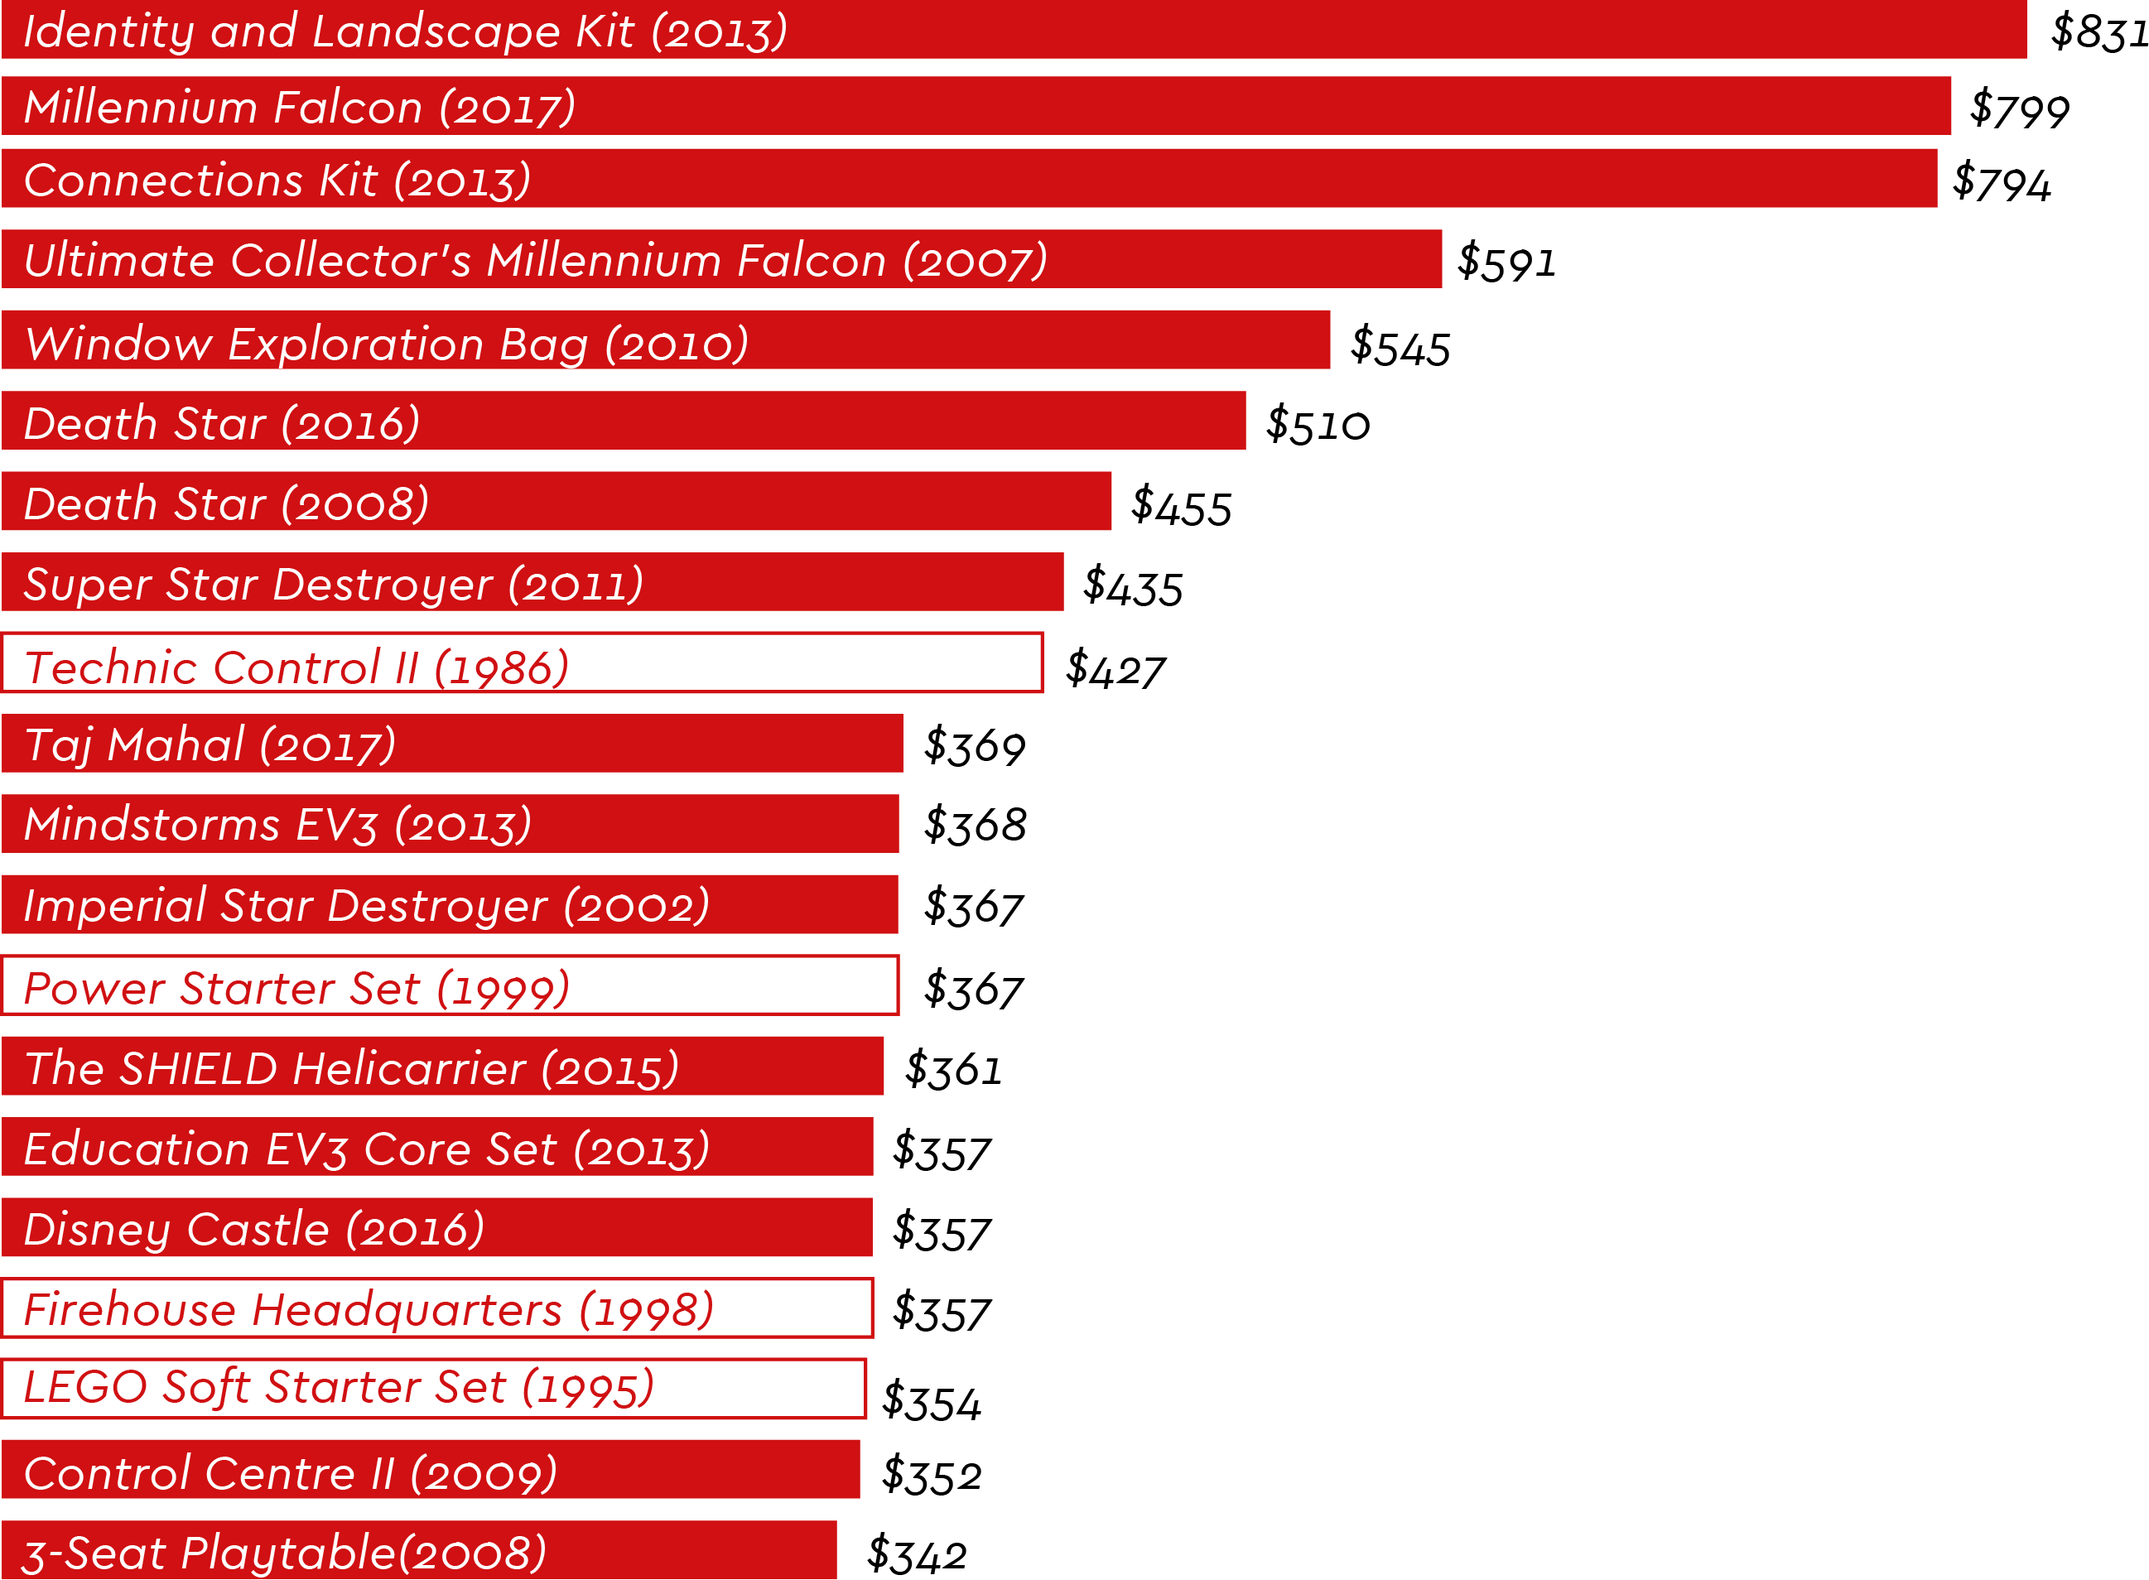
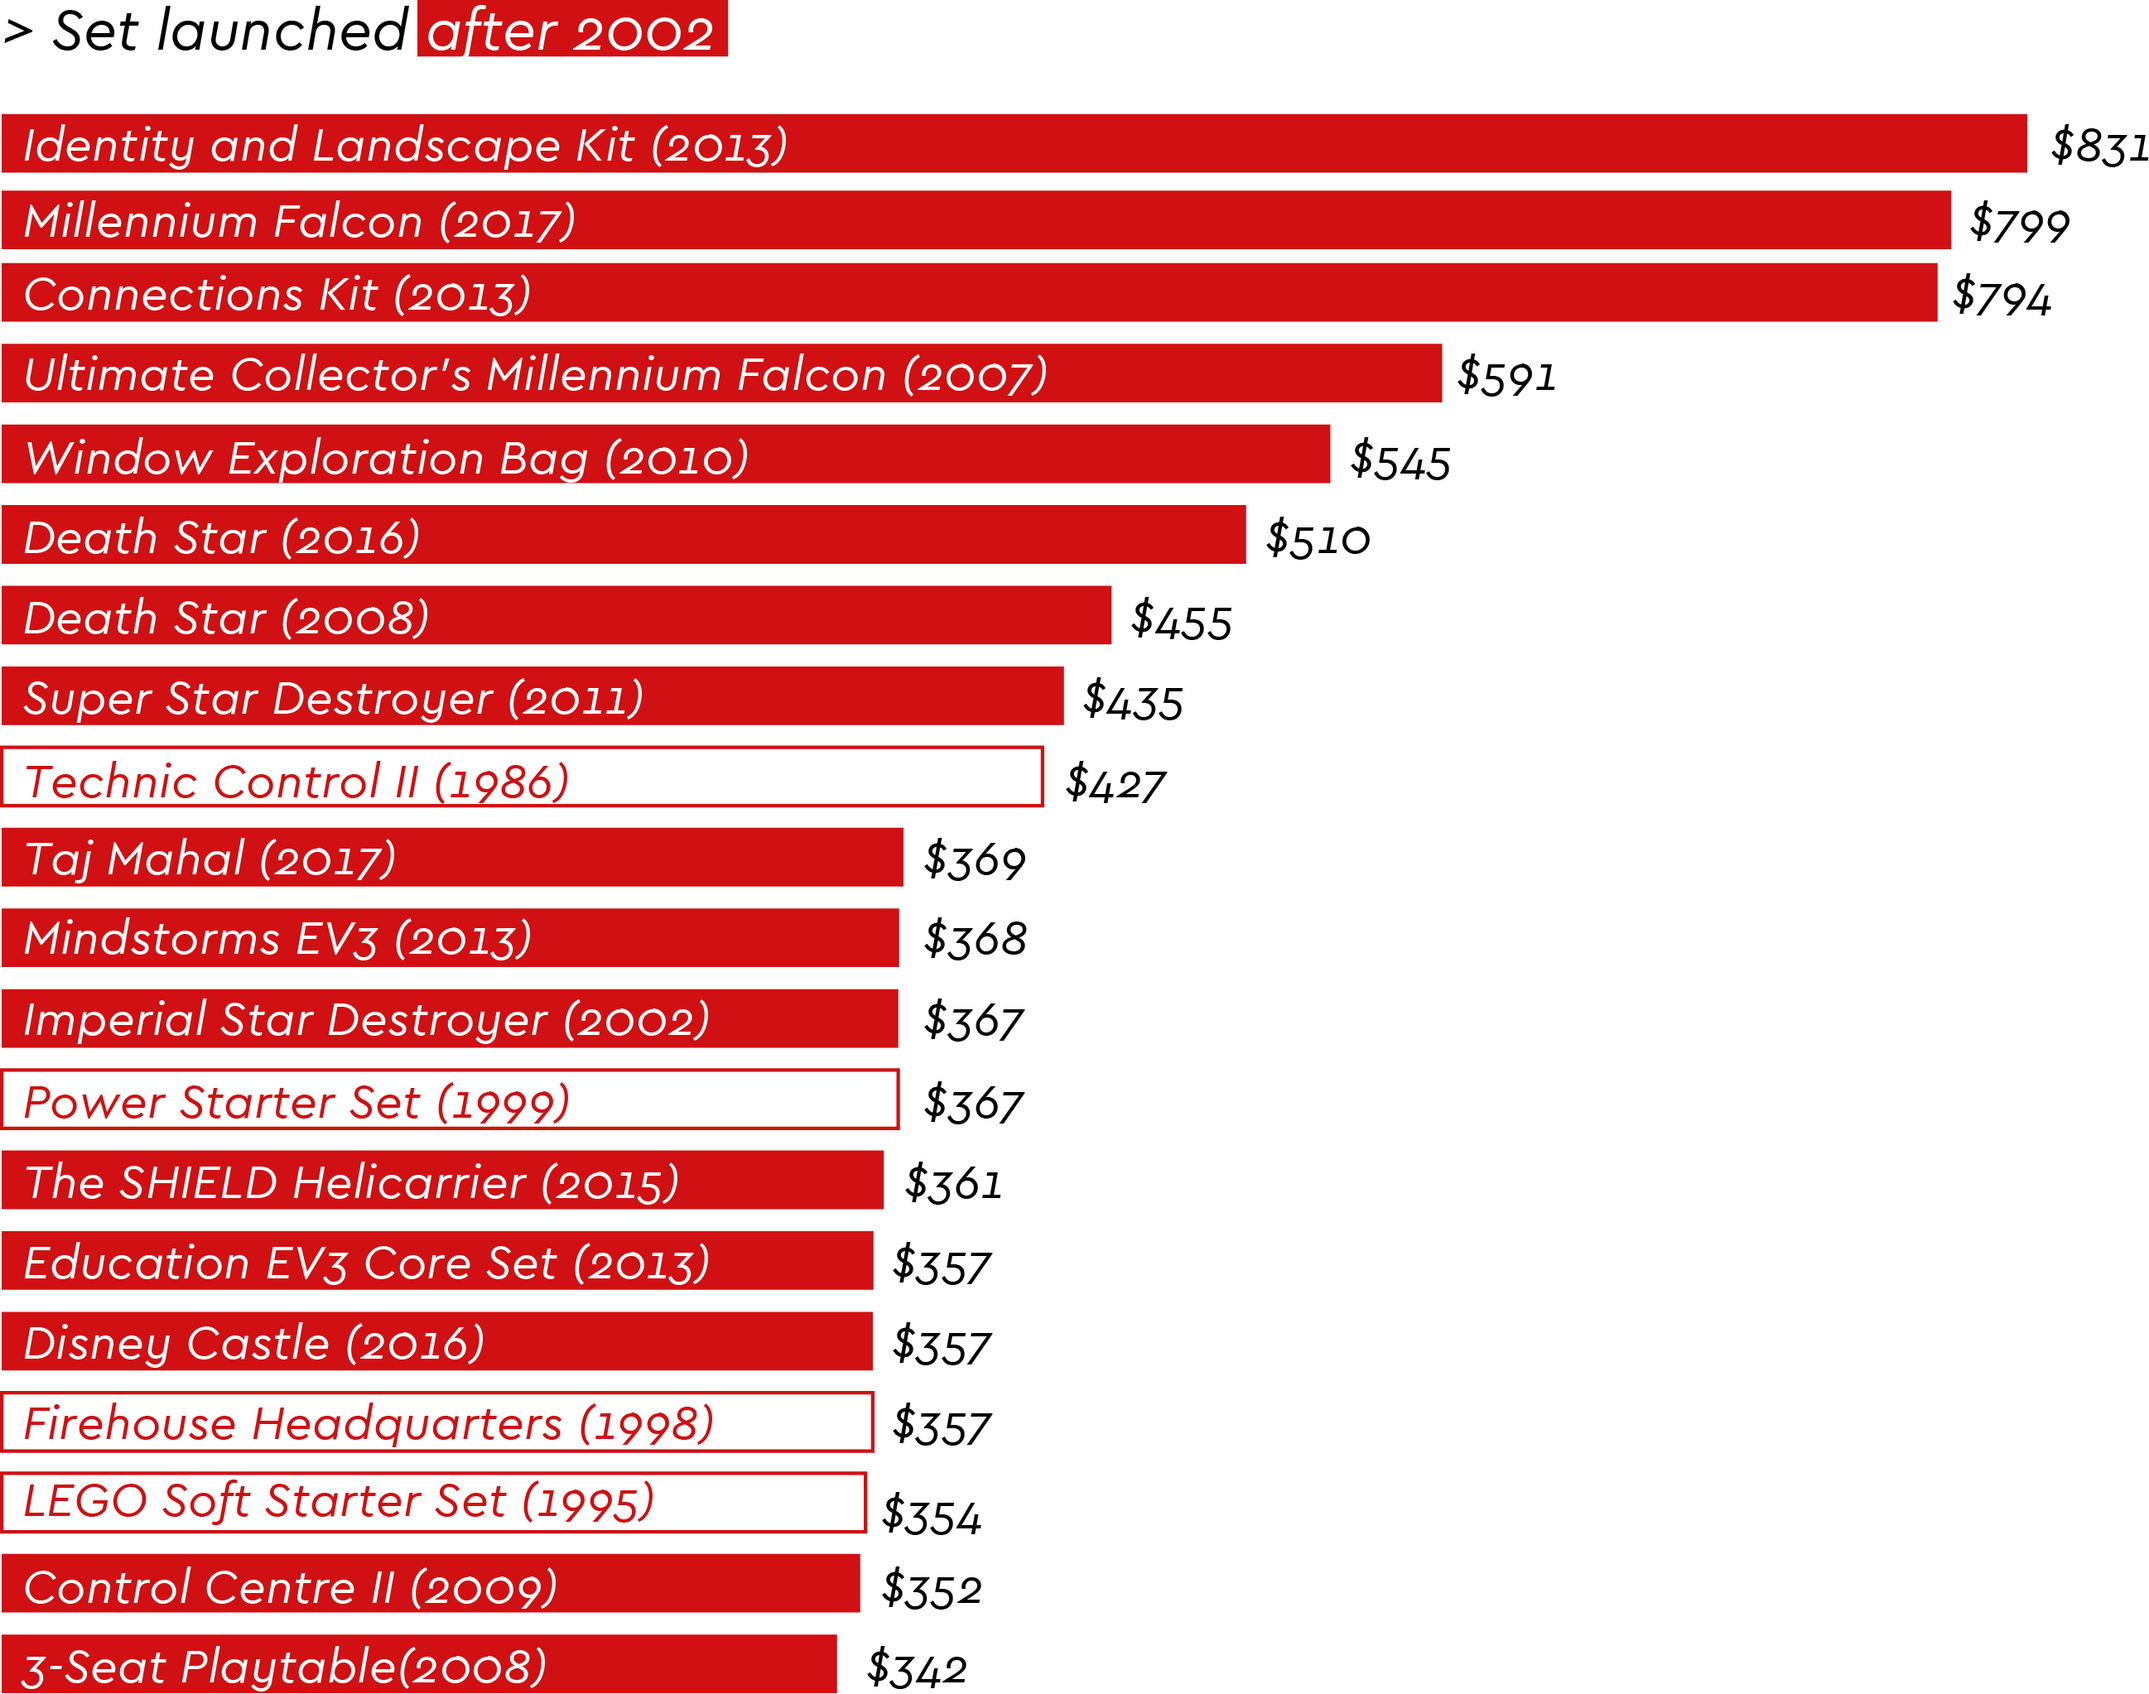
fn

Changed region(s): [[0.0, 0.0, 0.9988, 1.0]]

diff --git a/index.html b/index.html
@@ -25,7 +25,7 @@
             <div class="col-lg-10 ">
                 <p class="label-text super-font">Hey, you! This is my latest project. Wanna see my previous ones? Click <a href="https://nickospi.github.io/Earthquakes/">here</a> and find out what it means to live in one of the world's most seismically active countries.
                   <br> 
-                  <br> [<a href="https://github.com/nickospi">Who is this guy again?]</a> </p></p>
+                  <br> [<a href="https://github.com/nickospi">Who is this guy again?</a>] </p></p>
                 <br>___________________________________<br>
                 <br>
                  <!-- Copy project here -->
@@ -83,7 +83,7 @@
   <div class="col-lg-10 ">
       <p class="subhead super-font">The answer lies in the individual sets.</p>
       <p class="body-text sub-font">
-        Although LEGOs are not getting more expensive, but quite the oposite as our analysis showed, notice how 17 out of the top 20 most expensive sets have been launched after 2002. 
+        Although LEGOs are not getting more expensive, but quite the oposite as our analysis showed, notice how 16 out of the top 20 most expensive sets of all times have been launched after 2002. 
       </p>
   </div>
 </div>
@@ -92,7 +92,7 @@
 <div class="row justify-content-center"> <!-- labels/deszcriptions and three charts for mobile -->
   <div class="col-md-10"><!-- left -->
       <p class="label super-font">Top 20 most expensive sets of all times</p>
-      <p class="label-text super-font">Sets in <span style="background-color: #D01012", style="color:white">  red bars </span> were launched in, or after 2002. </p><br>
+      <p class="label-text super-font"> So how much would you spend on a LEGO set? </p><br>
       <img class="image" src="style/images/lego3.png" alt="most_expensive_set">
       <br>
       <br><p class="note sub-font"><br>

diff --git a/Lego/index.html b/Lego/index.html
@@ -23,7 +23,7 @@
     <div class="container"><!-- start of the main container-->
         <div class="row justify-content-center"><!-- headline and intro -->
             <div class="col-lg-10 ">
-                <p class="kicker super-font">A brick by brick analysis!</p>
+              <p class="kicker super-font">A brick by brick analysis!</p>
                 <h1 class="headline super-font">Are LEGOs getting more expensive?</h1>
                 <p class="credit super-font">BY Nikos Pitsiladis</p>
                 <p class="date sub-font">Published July 27, 2018</p>
@@ -76,7 +76,7 @@
   <div class="col-lg-10 ">
       <p class="subhead super-font">The answer lies in the individual sets.</p>
       <p class="body-text sub-font">
-        Although LEGOs are not getting more expensive, but quite the oposite as our analysis showed, notice how 17 out of the top 20 most expensive sets have been launched after 2002. 
+        Although LEGOs are not getting more expensive, but quite the oposite as our analysis showed, notice how 16 out of the top 20 most expensive sets of all times have been launched after 2002. 
       </p>
   </div>
 </div>
@@ -85,7 +85,7 @@
 <div class="row justify-content-center"> <!-- labels/deszcriptions and three charts for mobile -->
   <div class="col-md-10"><!-- left -->
       <p class="label super-font">Top 20 most expensive sets of all times</p>
-      <p class="label-text super-font">Sets in <span style="background-color: #D01012">red bars</span> were launched in, or after 2002. </p><br>
+      <p class="label-text super-font"> So how much would you spend on a LEGO set? </p><br>
       <img class="image" src="style/images/lego3.png" alt="most_expensive_set">
       <br>
       <br><p class="note sub-font"><br>
